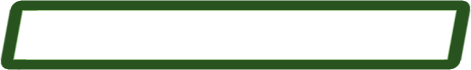
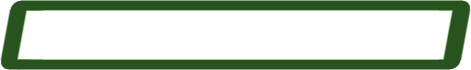
health bar borders are now sized better

Changed region(s): [[0.9214, 0.1429, 0.9809, 0.8571], [0.0297, 0.1429, 0.0892, 0.8571]]

diff --git a/game/js/main.js b/game/js/main.js
@@ -226,12 +226,12 @@ var mainState = {
 
         healthBorder1 = game.add.sprite(game.width/2 - 395,73,'health_border');
         healthBorder1.anchor.setTo(.5,.5);
-        healthBorder1.scale.setTo(-.997,.998);
+        healthBorder1.scale.setTo(-1.01,.998);
         healthBorders.add(healthBorder1);
         
         healthBorder2 = game.add.sprite(game.width/2 + 395,73,'health_border');
         healthBorder2.anchor.setTo(.5,.5);
-        healthBorder2.scale.setTo(.997,.998);
+        healthBorder2.scale.setTo(1.01,.998);
         healthBorders.add(healthBorder2);
         
         //AG: Pause
